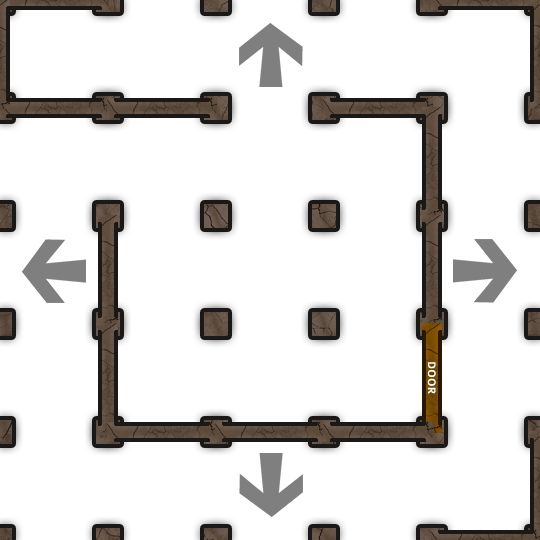
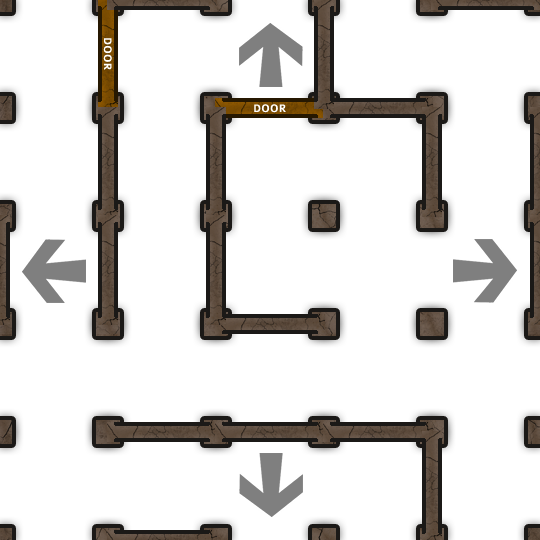
tiles and walls are now sprites

diff --git a/src/components/Room.js b/src/components/Room.js
@@ -10,12 +10,9 @@ const setPositions = (data, context) => {
 }
 
 const setBackground = (context) => {
-  let background = new Sprite(context._state.resources[context._tile].texture)
-  background.anchor.set(0.5, 0.5)
-  context._container.addChild(background)
-  let decorations = new Sprite(context._state.resources['RoomDecorations'].texture)
-  decorations.anchor.set(0.5, 0.5)
-  context._container.addChild(decorations)
+  let sprite = new Sprite(context._state.resources[context._tile].texture)
+  sprite.anchor.set(0.5, 0.5)
+  context._container.addChild(sprite)
 }
 
 const setMask = (context) => {
@@ -31,80 +28,6 @@ const setMask = (context) => {
   context._container.addChild(mask)
 }
 
-const setWalls = (data, context) => {
-  let row = -2
-  data.walls.map(value => {
-    let col = -2
-    let squares = value.split('|')
-    squares.map(square => {
-      let sprite
-      let orientations = square.split('')
-      // doors
-      if (orientations[0] === 'D') {
-        sprite = new Sprite(context._state.resources['RoomDoorHorizontal'].texture)
-        sprite.x = 108 * col
-        sprite.y = 108 * row - 108 * 0.5
-        sprite.anchor.set(0.5, 0.5)
-        context._container.addChild(sprite)
-      }
-      if (orientations[1] === 'D') {
-        sprite = new Sprite(context._state.resources['RoomDoorVertical'].texture)
-        sprite.x = 108 * col + 108 * 0.5
-        sprite.y = 108 * row
-        sprite.anchor.set(0.5, 0.5)
-        context._container.addChild(sprite)
-      }
-      if (orientations[2] === 'D') {
-        sprite = new Sprite(context._state.resources['RoomDoorHorizontal'].texture)
-        sprite.x = 108 * col
-        sprite.y = 108 * row + 108 * 0.5
-        sprite.anchor.set(0.5, 0.5)
-        context._container.addChild(sprite)
-      }
-      if (orientations[3] === 'D') {
-        sprite = new Sprite(context._state.resources['RoomDoorVertical'].texture)
-        sprite.x = 108 * col - 108 * 0.5
-        sprite.y = 108 * row
-        sprite.anchor.set(0.5, 0.5)
-        context._container.addChild(sprite)
-      }
-      // walls
-      if (orientations[0] === '1') {
-        sprite = new Sprite(context._state.resources['RoomWallHorizontal'].texture)
-        sprite.x = 108 * col
-        sprite.y = 108 * row - 108 * 0.5
-        sprite.anchor.set(0.5, 0.5)
-        context._container.addChild(sprite)
-      }
-      if (orientations[1] === '1') {
-        sprite = new Sprite(context._state.resources['RoomWallVertical'].texture)
-        sprite.x = 108 * col + 108 * 0.5
-        sprite.y = 108 * row
-        sprite.anchor.set(0.5, 0.5)
-        context._container.addChild(sprite)
-      }
-      if (orientations[2] === '1') {
-        sprite = new Sprite(context._state.resources['RoomWallHorizontal'].texture)
-        sprite.x = 108 * col
-        sprite.y = 108 * row + 108 * 0.5
-        sprite.anchor.set(0.5, 0.5)
-        context._container.addChild(sprite)
-      }
-      if (orientations[3] === '1') {
-        sprite = new Sprite(context._state.resources['RoomWallVertical'].texture)
-        sprite.x = 108 * col - 108 * 0.5
-        sprite.y = 108 * row
-        sprite.anchor.set(0.5, 0.5)
-        context._container.addChild(sprite)
-      }
-      col += 1
-      return square
-    })
-    row += 1
-    return squares
-  })
-}
-
 class Room {
   constructor (state, data) {
     this._state = state
@@ -116,7 +39,11 @@ class Room {
     setBackground(this)
     setPositions(data, this)
     setMask(this)
-    setWalls(data, this)
+  }
+  setWalls (walls) {
+    let sprite = new Sprite(this._state.resources[walls].texture)
+    sprite.anchor.set(0.5, 0.5)
+    this._container.addChild(sprite)
   }
   getContainer () {
     return this._container

diff --git a/server/handlers/resources.js b/server/handlers/resources.js
@@ -2,22 +2,20 @@ module.exports = {
   auth: false,
   handler (request, reply) {
     return reply({
-      walls: [
-        ['1-11|--1-|----|--1-|11--', '----|----|----|-1--|----', '-1--|----|----|----|---1', '-1--|----|----|----|---D', '----|1---|1---|1---|-11-'],
-        ['-D--|1---|-1D-|--11|1---', '-1--|---1|---1|-1--|-1--', '---1|---1|--11|----|-1--', '----|----|----|----|----', '----|1-1-|1---|1---|---1'],
-        ['-11-|1---|----|----|--11', '----|----|-1-1|----|----', '-D--|1-1-|----|1-1-|---D', '----|----|-1-1|----|----', '11--|----|----|----|1--1'],
-        ['---1|1---|111-|----|11--', '-1-1|--1-|1-1-|-1--|-1--', '-11-|--1-|----|-1--|----', '---1|--1-|-1--|-1--|-1--']
-      ],
       tiles: {
-        RoomDecorations: 'http://localhost:3000/data/images/5x5-decorations.png',
         RoomTileAir: 'http://localhost:3000/data/images/5x5-air.png',
         RoomTileEarth: 'http://localhost:3000/data/images/5x5-earth.png',
         RoomTileFire: 'http://localhost:3000/data/images/5x5-fire.png',
         RoomTileNature: 'http://localhost:3000/data/images/5x5-nature.png',
         RoomTileMagic: 'http://localhost:3000/data/images/5x5-magic.png',
         RoomTileUndead: 'http://localhost:3000/data/images/5x5-undead.png',
-        RoomTileTech: 'http://localhost:3000/data/images/5x5-tech.png',
-        Walls001: 'http://localhost:3000/data/images/walls-001.png'
+        RoomTileTech: 'http://localhost:3000/data/images/5x5-tech.png'
+      },
+      walls: {
+        Walls000: 'http://localhost:3000/data/images/walls-000.png',
+        Walls001: 'http://localhost:3000/data/images/walls-001.png',
+        Walls002: 'http://localhost:3000/data/images/walls-002.png',
+        Walls003: 'http://localhost:3000/data/images/walls-003.png'
       },
       textures: {
         RoomDoorHorizontal: 'http://localhost:3000/data/images/door-h.png',

diff --git a/src/handlers/onInitializeEditor.js b/src/handlers/onInitializeEditor.js
@@ -1,6 +1,8 @@
 import request from 'request'
 import Debug from 'debug'
 
+import RoomEditor from '../components/RoomEditor'
+
 const debug = Debug('warboard-game:actions:onInitializeEditor')
 
 require('pixi.js/dist/pixi.min.js')
@@ -8,7 +10,7 @@ const Container = window.PIXI.Container
 const autoDetectRenderer = window.PIXI.autoDetectRenderer
 const loader = window.PIXI.loader
 
-const handler = (context) => {
+const handler = (id, context) => {
   debug('handler')
   context.state.progress.text = 'Chargement des data...'
   context.setState({progress: context.state.progress})
@@ -18,7 +20,7 @@ const handler = (context) => {
       'Content-Type': 'application/json'
     },
     json: true,
-    uri: window.location.origin + '/api/data'
+    uri: window.location.origin + '/api/walls'
   }, (error, response, body) => {
     if (error) {
       debug('ERROR %o', error)
@@ -43,13 +45,15 @@ const handler = (context) => {
       })
       loader.load((loader, resources) => {
         debug('load is complete')
-        let renderer = autoDetectRenderer(540, 540, {antialias: true, transparent: false, resolution: 1})
-        renderer.backgroundColor = 0xffcc00
+        let renderer = autoDetectRenderer(540, 540, {antialias: true, transparent: true, resolution: 1})
         let stage = new Container()
         context.state.resources = resources
         context.state.renderer = renderer
         context.state.stage = stage
         debug('game size %s x %s', renderer.width, renderer.height)
+        let room = new RoomEditor(context.state)
+        room.load(context.state.data.walls[id])
+        context.state.stage.addChild(room.getContainer())
         context.state.initialized = true
         context.setState(context.state)
       })

diff --git a/src/components/RoomEditor.js b/src/components/RoomEditor.js
@@ -4,6 +4,12 @@ const Sprite = window.PIXI.Sprite
 const Container = window.PIXI.Container
 const Graphics = window.PIXI.Graphics
 
+const setDecorations = (context) => {
+  let sprite = new Sprite(context._state.resources['RoomDecorations'].texture)
+  sprite.anchor.set(0.5, 0.5)
+  context._container.addChild(sprite)
+}
+
 const setMask = (context) => {
   let mask = new Graphics()
   mask.beginFill()
@@ -17,9 +23,9 @@ const setMask = (context) => {
   context._container.addChild(mask)
 }
 
-const setWalls = (data, context) => {
+const loadWalls = (walls, context) => {
   let row = -2
-  data.walls.map(value => {
+  walls.map(value => {
     let col = -2
     let squares = value.split('|')
     squares.map(square => {
@@ -92,15 +98,19 @@ const setWalls = (data, context) => {
 }
 
 class RoomEditor {
-  constructor (state, data) {
+  constructor (state) {
     this._state = state
-    this._tile = data.tile
-    this._positions = {x: 0, y: 0}
+    this._tile = this._state.data.tile
     this._container = new Container()
-    this._container.width = 1080
-    this._container.height = 1080
+    this._container.width = 540
+    this._container.height = 540
+    this._container.x = 270
+    this._container.y = 270
+    setDecorations(this)
     setMask(this)
-    setWalls(data, this)
+  }
+  load (walls) {
+    loadWalls(walls, this)
   }
   getContainer () {
     return this._container

diff --git a/server/handlers/walls.js b/server/handlers/walls.js
@@ -1,0 +1,22 @@
+module.exports = {
+  auth: false,
+  handler (request, reply) {
+    return reply({
+      tiles: {
+        RoomDecorations: 'http://localhost:3000/data/images/5x5-decorations.png'
+      },
+      textures: {
+        RoomDoorHorizontal: 'http://localhost:3000/data/images/door-h.png',
+        RoomDoorVertical: 'http://localhost:3000/data/images/door-v.png',
+        RoomWallHorizontal: 'http://localhost:3000/data/images/wall-h.png',
+        RoomWallVertical: 'http://localhost:3000/data/images/wall-v.png'
+      },
+      walls: [
+        ['1-11|--1-|----|--1-|11--', '----|----|----|-1--|----', '-1--|----|----|----|---1', '-1--|----|----|----|---D', '----|1---|1---|1---|-11-'],
+        ['-D--|1---|-1D-|--11|1---', '-1--|---1|---1|-1--|-1--', '---1|---1|--11|----|-1--', '----|----|----|----|----', '----|1-1-|1---|1---|---1'],
+        ['-11-|1---|----|----|--11', '----|----|-1-1|----|----', '-D--|1-1-|----|1-1-|---D', '----|----|-1-1|----|----', '11--|----|----|----|1--1'],
+        ['---1|1-D-|111-|----|11--', '-1-1|--1-|1-1-|-1--|-1--', '-11-|--1-|----|-1--|----', '---1|--1-|-1--|-1--|-1--', '-11-|1---|-11-|--1-|-1--']
+      ]
+    })
+  }
+}

diff --git a/src/handlers/onInitializeRandomBoard.js b/src/handlers/onInitializeRandomBoard.js
@@ -9,13 +9,14 @@ const debug = Debug('warboard-game:actions:onInitializeRandomBoard')
 const handler = (context) => {
   debug('handler')
   // 1 ... random walls
+  let randomWalls = Object.keys(context.state.data.walls)
   let walls = []
   for (let i = 0; i < 8; i++) {
-    let randomWalls = shuffle(context.state.data.walls)
-    walls.push(randomWalls[0])
+    let randomWall = shuffle(randomWalls)[0]
+    walls.push(randomWall)
   }
   // 2... random tiles
-  let randomTiles = shuffle(['RoomTileAir', 'RoomTileEarth', 'RoomTileFire', 'RoomTileNature', 'RoomTileMagic', 'RoomTileUndead', 'RoomTileTech'])
+  let randomTiles = shuffle(Object.keys(context.state.data.tiles))
   let tiles = []
   for (let i = 0; i < 4; i++) {
     tiles.push(randomTiles[i])
@@ -35,6 +36,7 @@ const handler = (context) => {
   ]
   rooms.map((data) => {
     let room = new Room(context.state, data)
+    room.setWalls(data.walls)
     return context.state.stage.addChild(room.getContainer())
   })
   Actions.initializeComplete()

diff --git a/src/handlers/onInitializeGame.js b/src/handlers/onInitializeGame.js
@@ -18,6 +18,10 @@ const handler = (context) => {
     loader.add(key, context.state.data.textures[key])
     return key
   })
+  Object.keys(context.state.data.walls).map(key => {
+    loader.add(key, context.state.data.walls[key])
+    return key
+  })
   Object.keys(context.state.data.tiles).map(key => {
     loader.add(key, context.state.data.tiles[key])
     return key

diff --git a/server/routes.js b/server/routes.js
@@ -1,6 +1,7 @@
 exports.endpoints = [
 
   { method: 'GET', path: '/api/alive', config: require('./handlers/alive') },
-  { method: 'GET', path: '/api/data', config: require('./handlers/data') }
+  { method: 'GET', path: '/api/resources', config: require('./handlers/resources') },
+  { method: 'GET', path: '/api/walls', config: require('./handlers/walls') }
 
 ]

diff --git a/src/pages/Editor.js b/src/pages/Editor.js
@@ -17,7 +17,7 @@ class Editor extends Reflux.Component {
   }
   componentDidMount () {
     debug('componentDidMount %s', this.props.location.pathname)
-    Actions.initializeEditor()
+    Actions.initializeEditor(this.props.match.params.id)
   }
   componentDidUpdate () {
     if (this.state.initialized === true && this.state.renderer) {

diff --git a/src/Application.js b/src/Application.js
@@ -18,7 +18,7 @@ const Application = () => (
   <Router>
     <Switch>
       <Route exact path="/master" component={Master} />
-      <Route exact path="/editor" component={Editor} />
+      <Route exact path="/editor/:id" component={Editor} />
       <Route component={NoMatch} />
     </Switch>
   </Router>

diff --git a/src/StoreEditor.js b/src/StoreEditor.js
@@ -28,7 +28,7 @@ class StoreEditor extends Reflux.Store {
     this.listenables = [Actions]
     this.handlers = new Handlers()
   }
-  onInitializeEditor () { this.handlers.onInitializeEditor(this) }
+  onInitializeEditor (id) { this.handlers.onInitializeEditor(id, this) }
 }
 
 export default StoreEditor

diff --git a/src/handlers/onInitialize.js b/src/handlers/onInitialize.js
@@ -15,7 +15,7 @@ const handler = (context) => {
       'Content-Type': 'application/json'
     },
     json: true,
-    uri: window.location.origin + '/api/data'
+    uri: window.location.origin + '/api/resources'
   }, (error, response, body) => {
     if (error) {
       debug('ERROR %o', error)
